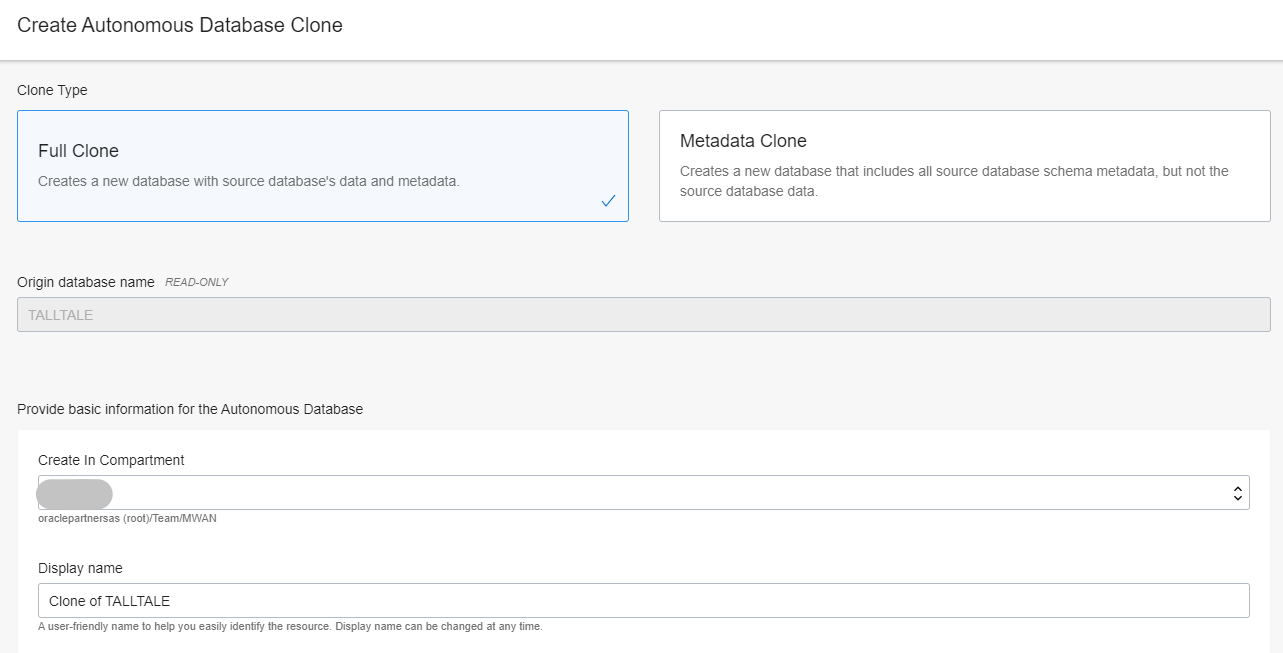
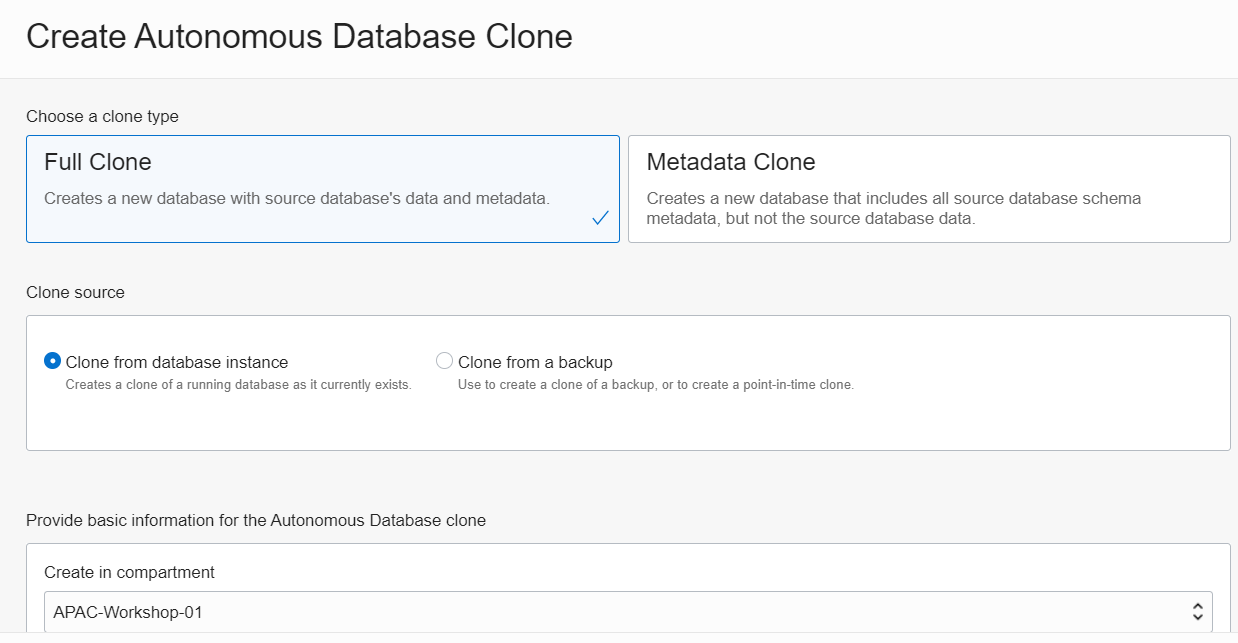
Clarifications added

diff --git a/lab900/content.md b/lab900/content.md
@@ -34,7 +34,7 @@ When your custom image is created you should see the Work Requests as below. Wor
 
 ![](./images/work-request-1.png)
 
-	7. Select the Custom Images menu and you should see your custom image created. 
+	7. Select Compute then Custom Images menu and you should see your custom image created. 
 
 ![](./images/work-request.PNG)
 
@@ -42,13 +42,13 @@ You can now use this image to launch another instance by selecting the 3 dots ac
 
 ## Step 2: Create a New Instance from Custom Image ##
 
-1. Click on the Custom Image action menu … on the right
+1. Click on the Custom Image 3 dots action menu … on the right
 2. Select Create Instance
 3. Create the Instance in your compartment and VCN and this time let’s put it in the public subnet
 4. Make sure to select assign public IP address
 5. Enter your public key
 
-Your new instance will be created in a few minutes with the App Server workload already imaged.
+Your new instance will be created in a few minutes with the App Server and Swingbench application already imaged.
 
 ![](./images/create-instance-from-image.PNG)
 
@@ -72,29 +72,17 @@ Replace the script below with your wallet and service name.
 
 ```
 $./charbench -c ../configs/SOE_Server_Side_V2.xml \
-
--cf ~/Wallet_ATPLABTEST.zip \
-
+-cf ~/Wallet_ATPLABTEST/Wallet_ATPLABTEST.zip \
 -cs atplabtest_tp \
-
 -u soe \
-
 -p Welcome#2018 \
-
 -v users,tpm,tps \
-
 -intermin 0 \
-
 -intermax 0 \
-
 -min 0 \
-
 -max 0 \
-
 -uc 128 \
-
 -di SQ,WQ,WA \
-
 -rt 0:30.00
 ```
 
@@ -108,13 +96,13 @@ Let’s now clone the ATP service and run the workload against it. Cloning allow
 
 2. Select Create Clone from the Actions menu
 
-3. Create a Full Clone, which will clone data and metadata
+3. Create a Full Clone from database instance, which will clone data and metadata
 
-   ![](./images/clone-atp-1.png)
+   <img src="./images/clone-atp-1.png" style="zoom:67%;" />
 
-![](./images/clone-atp-2.png)
+<img src="./images/clone-atp-2.png" style="zoom:67%;" />
 
-	4. Select 2 cores, 1 TB
+	4. Select database version 19c, 2 cores, 1 TB
 
 	5. Enable Auto Scaling
 
@@ -122,44 +110,53 @@ Let’s now clone the ATP service and run the workload against it. Cloning allow
 
 	7. Select BYOL
 
-	8. Create Clone
+	8. Create Autonomous Database Clone
 
 <img src="./images/clone-atp-3.png" style="zoom:75%;" />
 
-The Clone will be created. It will have a new Wallet. 
+The Clone will be created in 15-20 minutes.  It will have a new Wallet.  Notice the source database is still running.
 
-9. Download the new Wallet
-10. Run the workload again from your client, but remember to change the Wallet and Connection Service name in your script.
+	9. Download the new Wallet
+
+	10. Run the workload again from your client, but remember to:
+
+- Copy the new wallet to your new instance 
+
+- Unzip the wallet
+
+- Add the new database services to tnsnames.ora 
+
+- Edit the sqlnet.ora to point to the new wallet 
+
+- and change the Wallet and Connection Service name in the script below
+
+  Troubleshooting: Test the connection with SQLPlus.
+
+  ```
+  $ export PATH=/usr/lib/oracle/18.5/client64/bin:$PATH
+  
+  $ export LD_LIBRARY_PATH=/usr/lib/oracle/18.5/client64/lib
+  
+  $ sqlplus admin/<password>@<service_tp>
+  ```
 
 ```
 $./charbench -c ../configs/SOE_Server_Side_V2.xml \
-
--cf ~/Wallet_ATPLABTEST.zip \
-
+-cf ~/Wallet_ATPLABTEST/Wallet_ATPLABTEST.zip \
 -cs atplabtest_tp \
-
 -u soe \
-
 -p Welcome#2018 \
-
 -v users,tpm,tps \
-
 -intermin 0 \
-
 -intermax 0 \
-
 -min 0 \
-
 -max 0 \
-
 -uc 128 \
-
 -di SQ,WQ,WA \
-
 -rt 0:30.00
 ```
 
-Your workload will now run against the cloned ATP.  
+Your workload will now run against the cloned ATP.   
 
 ## Step 4: Managing Boot Volumes
 
